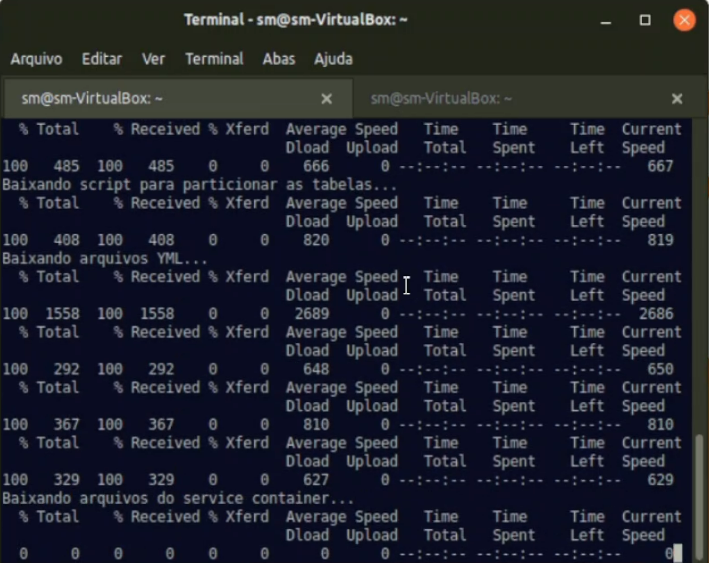
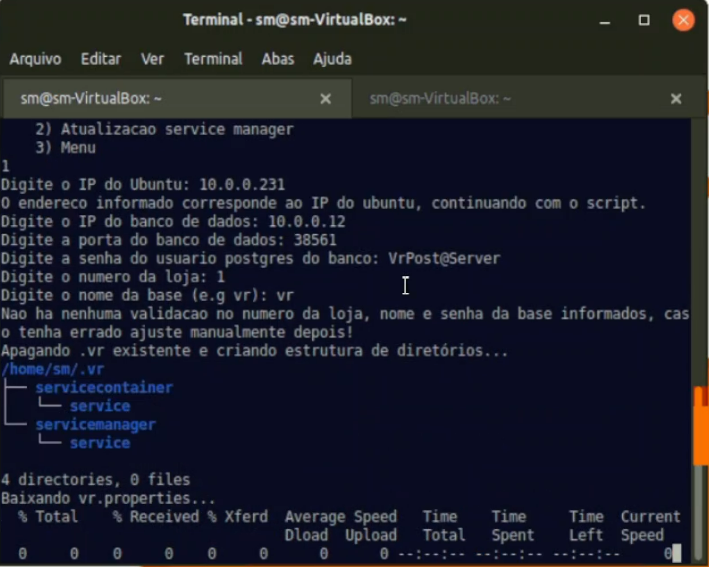
GITBOOK-8: No subject

diff --git a/service-manager/instalacao-e-configuracao-inicial.md b/service-manager/instalacao-e-configuracao-inicial.md
@@ -98,15 +98,19 @@ chmod +x atalhos.sh
 
 <figure><img src="../.gitbook/assets/image (20).png" alt=""><figcaption><p>É necessário digitar o número da opção desejada e apertar Enter. Caso encerre por acidente o script, rode apenas ./atalhos.sh para executar novamente.</p></figcaption></figure>
 
-3.  Ao iniciar o script, digite **2** que corresponde a opção “Service Manager”. E então insira o número da opção corresponde a versão do VRMaster do cliente.\
+3.  Ao iniciar o script, digite **2** que corresponde a opção “Service Manager” e aperte a tecla _Enter_ para seguir.&#x20;
 
+    <figure><img src="../.gitbook/assets/image.png" alt=""><figcaption><p>Escolha a opção Service Manager no menu de funções.</p></figcaption></figure>
+
+
+4.  Digite o número da lista que corresponde a versão do VRMaster do cliente.
 
     <figure><img src="../.gitbook/assets/image (21).png" alt=""><figcaption><p>Geralmente 4.2. Em caso de dúvidas confirmar no servidor de aplicativos.</p></figcaption></figure>
-4.  Na pergunta seguinte, escolha a opção 1, pois estamos instalando pela primeira vez e não apenas atualizando.\
+5.  Na pergunta seguinte, escolha a opção 1, pois estamos instalando pela primeira vez e não apenas atualizando.\
 
 
     <figure><img src="../.gitbook/assets/image (23).png" alt=""><figcaption><p>Uma vez instalado, a opção 2 pode ser utilizada para atualizar as aplicações.</p></figcaption></figure>
-5. Insira cada informação solicitada pelo script para gerar os arquivos de configuração corretos (_vr.properties_ e _docker-compose-sm-sc.yml_).
+6. Insira cada informação solicitada pelo script para gerar os arquivos de configuração corretos (_vr.properties_ e _docker-compose-sm-sc.yml_).
 
 {% tabs %}
 {% tab title="IP do Ubuntu" %}
